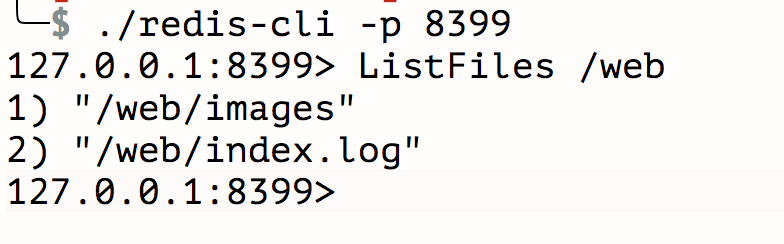
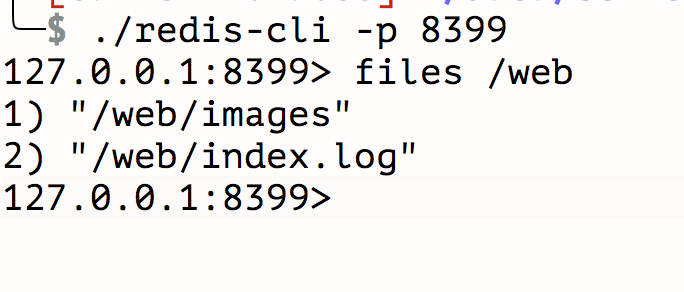
add new command

diff --git a/src/ftpSync/syncFtp.go b/src/ftpSync/syncFtp.go
@@ -31,22 +31,26 @@ type SyncFtp struct {
 	syncStopChannel chan bool
 	allRemoteFolder map[string]bool
 	syncFtpServer   *ftp.ServerConn
+	excludeFolders []string
 }
 
 func (obj *SyncFtp) connectFtpServer() bool {
 	fs, err := ftp.DialTimeout(GConfig.FtpServerAddress, time.Second*30)
 	if err != nil {
-		Logger.Println(err)
+		Logger.Printf("ftp server %s connect failed %v", GConfig.FtpServerAddress, err)
 		return false
 	}
 
 	err = fs.Login(GConfig.FtpServerUser, GConfig.FtpServerPassword)
 	if err != nil {
+		Logger.Printf("ftp server %s login failed %v", GConfig.FtpServerAddress, err)
 		Logger.Println(err)
 		return false
 	}
 
 	obj.syncFtpServer = fs
+
+	Logger.Printf("ftp server %s connect success", GConfig.FtpServerAddress)
 
 	return true
 }
@@ -60,17 +64,34 @@ func (obj *SyncFtp) listFtpServerFolder(p string) {
 	}
 
 	for _, e := range fileEntryList {
-		if e.Type == ftp.EntryTypeFolder {
-			tp := path.Join(p, e.Name)
-			obj.allRemoteFolder[tp] = true
-			obj.listFtpServerFolder(tp)
-			Logger.Printf("found folder:%s", tp)
+		if e.Type != ftp.EntryTypeFolder {
+			continue
 		}
+
+		if InStringArray(e.Name, []string{".", ".."}) {
+			continue
+		}
+
+		tp := path.Join(p, e.Name)
+
+		if InStringArray(tp, obj.excludeFolders) {
+			continue
+		}
+
+		obj.allRemoteFolder[tp] = true
+		obj.listFtpServerFolder(tp)
+		Logger.Printf("found ftp server folder:%s", tp)
 	}
 }
 
 func (obj *SyncFtp) Init() {
 	obj.syncFtpServer = nil
+
+	if len(GConfig.ExcludeFolders) > 0 {
+		obj.excludeFolders = strings.Split(GConfig.ExcludeFolders, ",")
+	} else {
+		obj.excludeFolders = make([]string, 0)
+	}
 
 	if obj.connectFtpServer() == false {
 		return
@@ -134,10 +155,12 @@ func (obj *SyncFtp) Refresh() {
 		return
 	}
 
+	Logger.Printf("starting refresh ftp server")
+
 	obj.allRemoteFolder = make(map[string]bool, 0)
 	obj.listFtpServerFolder("/")
 
-	Logger.Printf("refresh remote folder %v", reflect.ValueOf(obj.allRemoteFolder).MapKeys())
+	Logger.Printf("refresh ftp server folder success %v", reflect.ValueOf(obj.allRemoteFolder).MapKeys())
 }
 
 func (obj *SyncFtp) Put(localFile, remoteFile string, numberTimes int) {
@@ -238,10 +261,31 @@ func (obj *SyncFtp) ListFiles(remoteFolder string) ([]string, error) {
 
 	folderFiles := make([]string, 0)
 	for _, e := range fileEntryList {
-		folderFiles = append(folderFiles, path.Join(remoteFolder, e.Name))
+		if InStringArray(e.Name, []string{".", ".."}) == false{
+			folderFiles = append(folderFiles, path.Join(remoteFolder, e.Name))
+		}
 	}
 
 	return folderFiles, nil
+}
+
+func (obj *SyncFtp) DeleteFile(remoteFile string) bool {
+	obj.Lock()
+	defer obj.Unlock()
+
+	if obj.syncFtpServer == nil && obj.connectFtpServer() == false {
+		return false
+	}
+
+	err := obj.syncFtpServer.Delete(remoteFile)
+	if err != nil {
+		Logger.Printf("delete ftp server file %s failed %v", remoteFile, err)
+		return false
+	}
+
+	Logger.Printf("delete ftp server file %s success", remoteFile)
+
+	return true
 }
 
 func (obj *SyncFtp) Stop() {

diff --git a/src/ftpSync/syncServer.go b/src/ftpSync/syncServer.go
@@ -49,12 +49,22 @@ func (obj *ftpSyncRedisHandler) FtpSync(localFile, remoteFile string) error {
 	return errors.New("sync fail")
 }
 
-func (obj *ftpSyncRedisHandler) ListFiles(remoteFolder string) ([]string, error) {
+func (obj *ftpSyncRedisHandler) Files(remoteFolder string) ([]string, error) {
 	if len(remoteFolder) == 0 || strings.HasPrefix(remoteFolder, "/") == false {
 		return nil, errors.New("error params")
 	}
 
 	return GSyncFtp.ListFiles(remoteFolder)
+}
+
+func (obj *ftpSyncRedisHandler) Delete(remoteFile string) error {
+	if len(remoteFile) == 0 || strings.HasPrefix(remoteFile, "/") == false || strings.HasSuffix(remoteFile, "/") == true {
+		return errors.New("error params")
+	}
+
+	go GSyncFtp.DeleteFile(remoteFile)
+
+	return nil
 }
 
 func Run() {

diff --git a/src/ftpSync/config.go b/src/ftpSync/config.go
@@ -9,6 +9,7 @@ import (
 
 type TConfig struct {
 	ListenServer      string `xml:"listen"`
+	ExcludeFolders    string `xml:"ftp>excludes"`
 	FtpServerAddress  string `xml:"ftp>address"`
 	FtpServerUser     string `xml:"ftp>user"`
 	FtpServerPassword string `xml:"ftp>password"`

diff --git a/README.md b/README.md
@@ -23,7 +23,8 @@ OK
 ```
 ping {message}
 ftpsync {local file} {remote file}
-listfiles {remote folder}
+files {remote folder}
+delete {remote file}
 ```
 
 ### config
@@ -32,6 +33,7 @@ listfiles {remote folder}
 <config>
     <listen>0.0.0.0:8399</listen>
     <ftp>
+        <excludes></excludes>
         <address>192.168.1.155:21</address>
         <user>anonymous</user>
         <password>anonymous</password>
@@ -45,7 +47,6 @@ listfiles {remote folder}
 ![](screenshot/ex_3.png)
 ![](screenshot/ex_4.png)
 
-
 ### example
 ```
 <?php
@@ -55,7 +56,9 @@ $redis_handle->connect('127.0.0.1', 8399, 30);
 //同步上传
 $redis_handle->rawCommand('ftpsync', '/data/nice.gif', '/web/images/hello.gif');
 //拉取列表
-$result = $redis_handle->rawCommand('listfiles', '/web');
+$result = $redis_handle->rawCommand('files', '/web');
+//删除
+$redis_handle->rawCommand('delete', '/web/images/hello.gif');
 ```
 
 ### deps
